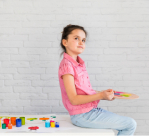
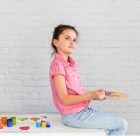
Add: Sec-2 positioned precisely

Changed region(s): [[0.3429, 0.1765, 0.8857, 0.9412], [0.0, 0.8235, 0.4, 0.9706], [0.7429, 0.9412, 0.8571, 1.0]]

diff --git a/index.html b/index.html
@@ -150,36 +150,36 @@
                         <div class="why_circles-item why_circles-item-1">
                             <img class="why_circles-item_img"
                             src="./img/1.jpg"
-                            width=" "
-                            height=" "
+                            width="168"
+                            height="168"
                             alt="Счастливые дети">
                         </div>
                         <div class="why_circles-item why_circles-item-2">
                             <img class="why_circles-item_img"
                             src="./img/2.jpg"
-                            width=" "
-                            height=" "
+                            width="285"
+                            height="285"
                             alt="Счастливые дети">
                         </div>
                         <div class="why_circles-item why_circles-item-3">
                             <img class="why_circles-item_img"
                             src="./img/3.jpg"
-                            width=" "
-                            height=" "
+                            width="352"
+                            height="352"
                             alt="Счастливые дети">
                         </div>
                         <div class="why_circles-item why_circles-item-4">
                             <img class="why_circles-item_img"
                             src="./img/4.jpg"
-                            width=" "
-                            height=" "
+                            width="310"
+                            height="310"
                             alt="Счастливые дети">
                         </div>
                         <div class="why_circles-item why_circles-item-5">
                             <img class="why_circles-item_img"
                             src="./img/5.jpg"
-                            width=" "
-                            height=" "
+                            width="136"
+                            height="136"
                             alt="Счастливые дети">
                         </div>
                     </div>

diff --git a/style/custom.css b/style/custom.css
@@ -218,13 +218,13 @@ h1, h2, h3, p, a, button, ::placeholder {
 /* Section-2 */
 
 .section-2 {
-    background: #e5e5e5;
+    background: #fffcfa;
     z-index: 5;
 }
 
 .section-2_container {
     max-width: 1410px;
-    min-height: 1200px;
+    min-height: 980px;
     padding: 50px 15px 0 15px;
     margin: 0 auto;
 }
@@ -252,13 +252,73 @@ h1, h2, h3, p, a, button, ::placeholder {
 }
 
 .why_text_item {
-    max-width: 400px;
+    max-width: 350px;
+    padding-left: 33px;
+    padding-bottom: 60px;
+    position: relative;
+    z-index: auto;
+}
+
+.why_text_item-title {
+    padding: 40px 0 20px 0;
+    font-size: 24px;
+    font-weight: 600;
+    z-index: 10;
+}
+
+.why_text_item-body {
+    font-size: 18px;
+    line-height: 22px;
+    z-index: 10;
+}
+
+.why_text_item-num {
+    position: absolute;
+    top: 0;
+    left: 0;
+    z-index: 5;
 }
 
 .why_circles {
+    width: 60%;
+    position: relative;
     z-index: 5;
 }
 
 .why_circles-item_img {
     border-radius: 50%;
 }
+
+.why_circles-item-1, 
+.why_circles-item-2, 
+.why_circles-item-3,
+.why_circles-item-4,
+.why_circles-item-5 {
+    position: absolute;
+}
+
+.why_circles-item-1 {
+    top: 0%;
+    left: 20%;
+}
+
+.why_circles-item-2 {
+    left: 43%;
+    top: 2%;
+}
+
+.why_circles-item-3 {
+    left: 8%;
+    top: 29%;
+}
+
+.why_circles-item-4 {
+    left: 50%;
+    top: 43%
+}
+
+.why_circles-item-5 {
+    left: 19%;
+    top: 76%
+}
+
